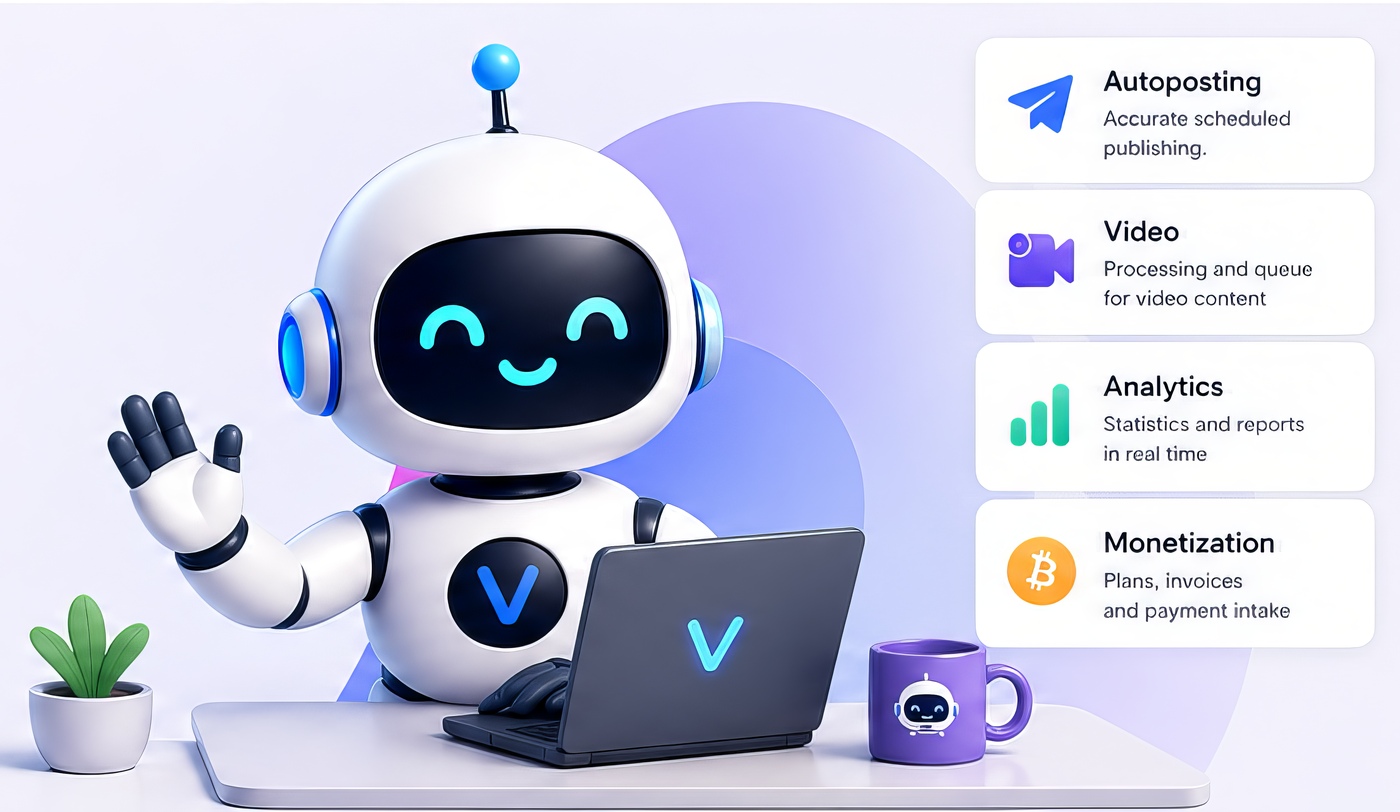
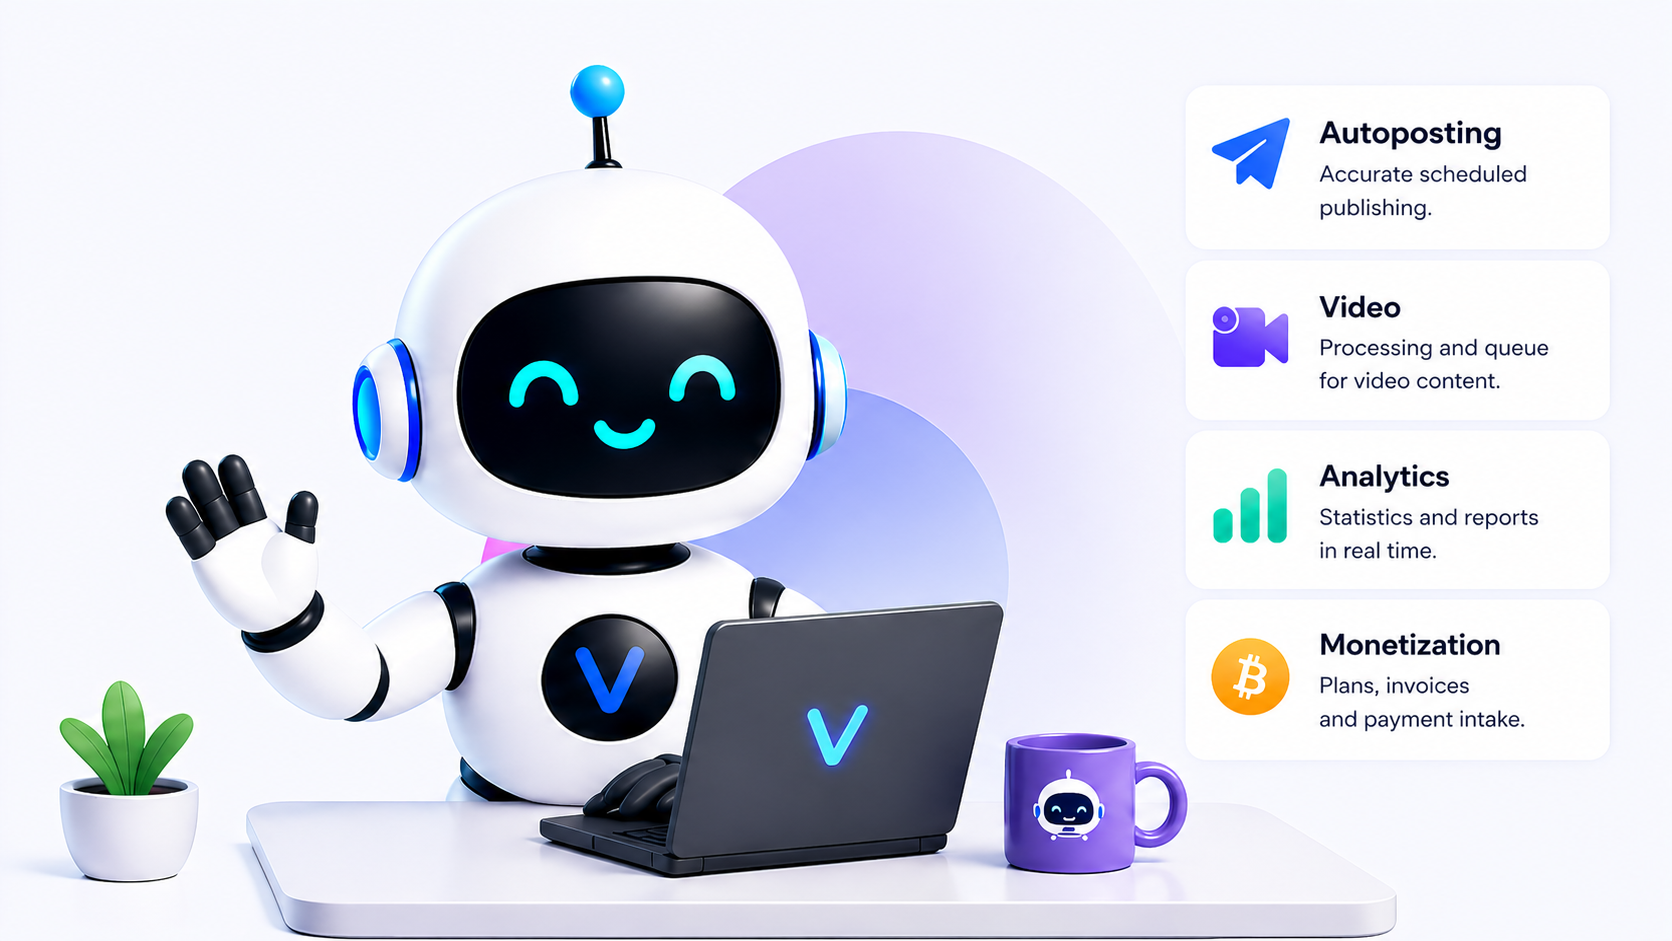
Update final hero scene images

diff --git a/landing/index.html b/landing/index.html
@@ -59,7 +59,7 @@
       <div class="hero-stage" aria-label="ViMi robot">
         <div class="orb orb-a"></div>
         <div class="orb orb-b"></div>
-        <img id="heroRobot" class="hero-robot" src="assets/hero-robot-ru.png" alt="ViMi robot" />
+        <img id="heroRobot" class="hero-scene" src="assets/hero-scene-ru.png" alt="" />
         <div class="hero-feature-card card-auto">
           <span class="feature-icon blue"><svg viewBox="0 0 24 24"><path d="M21 3L3.8 10.2c-.8.3-.8 1.5.1 1.8l4.5 1.4 1.7 5.4c.3.9 1.5 1 1.9.1L21 3z"/></svg></span>
           <div><strong data-i18n="hero_card_1_title">Автопостинг</strong><small data-i18n="hero_card_1_text">Аккуратные публикации по расписанию.</small></div>

diff --git a/landing/styles.css b/landing/styles.css
@@ -45,17 +45,6 @@
   overflow: visible !important;
 }
 
-.hero-robot,
-.robot,
-#robot {
-  position: absolute !important;
-  right: 64px !important;
-  bottom: 8px !important;
-  width: 560px !important;
-  max-width: none !important;
-  z-index: 2 !important;
-}
-
 .hero-card,
 .feature-card-floating,
 .float-card {
@@ -912,4 +901,11 @@
     width: 600px !important;
     max-width: 115% !important;
   }
+}
+.hero-scene {
+  width: 100%;
+  max-width: 760px;
+  height: auto;
+  display: block;
+  object-fit: contain;
 }
